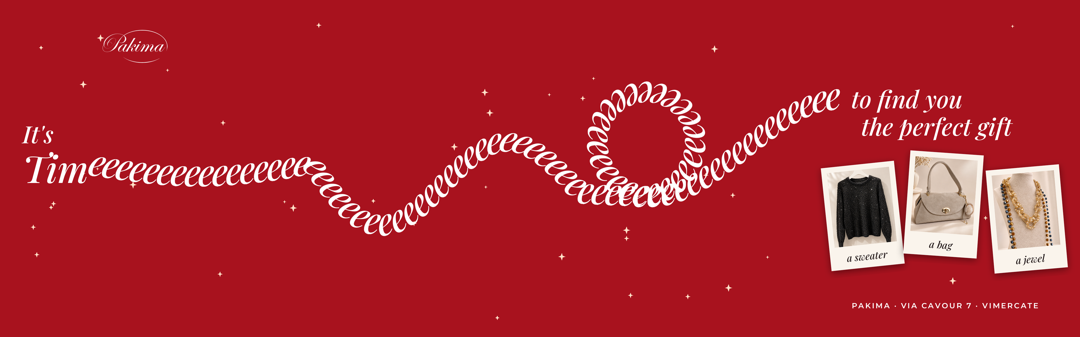
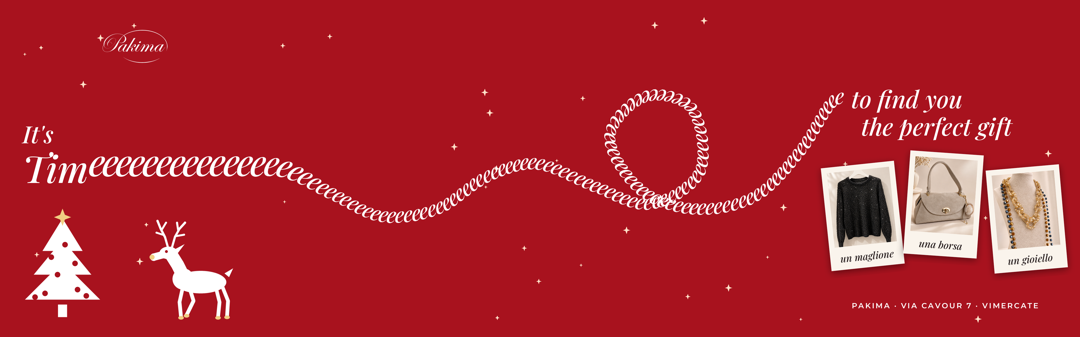
Carosello regali: scia fluida, albero e renna, didascalie in italiano
Claude-Session: https://claude.ai/code/session_01TRyadBTg1JbKFooPCfPKjK

diff --git a/output/2026-11-26-carosello-regali/crea.py b/output/2026-11-26-carosello-regali/crea.py
@@ -32,35 +32,28 @@ def stella(d, cx, cy, r, col):
                (cx, cy + r), (cx - k, cy + k), (cx - r, cy), (cx - k, cy - k)], fill=col)
 
 
+def catmull(pts, n=40):
+    out = []
+    P = [pts[0]] + pts + [pts[-1]]
+    for i in range(1, len(P) - 2):
+        p0, p1, p2, p3 = P[i - 1], P[i], P[i + 1], P[i + 2]
+        for k in range(n):
+            t = k / n
+            t2, t3 = t * t, t * t * t
+            out.append(tuple(0.5 * ((2 * p1[j]) + (-p0[j] + p2[j]) * t + (2 * p0[j] - 5 * p1[j] + 4 * p2[j] - p3[j]) * t2
+                                    + (-p0[j] + 3 * p1[j] - 3 * p2[j] + p3[j]) * t3) for j in (0, 1)))
+    out.append(pts[-1])
+    return out
+
+
 def percorso(x0, y0):
-    """Punti della scia di 'o': dritta, onda, giro della morte, salita verso il testo finale."""
-    pts = []
-    # 1) slide 1: dritta con leggera discesa
-    for x in range(int(x0), 1250, 4):
-        pts.append((x, y0 + 40 * math.sin((x - x0) / 260)))
-    # 2) slide 2: onda
-    ya = pts[-1][1]
-    for x in range(1250, 2330, 4):
-        u = (x - 1250) / 1080
-        pts.append((x, ya + 230 * math.sin(u * 2 * math.pi) * (1 - 0.3 * u) + 120 * u))
-    # 3) slide 3: giro della morte (cerchio pulito con leggera avanzata)
-    xb, yb = pts[-1]
-    for x in range(int(xb), 2560, 4):
-        pts.append((x, yb + (x - xb) * 0.05))
-    xb, yb = pts[-1]
-    R, drift = 210, 55
-    cx, cy = xb, yb - R
-    for i in range(0, 361, 2):
-        ph = math.radians(-90 + i)
-        pts.append((cx + R * math.cos(ph) + drift * i / 360, cy - R * math.sin(ph)))
-    # 4) verso la slide 4: risale dolcemente e finisce dove inizia "per trovare"
-    xc, yc = pts[-1]
-    xe, ye = 3240 + 110, 400
-    for i in range(1, 161):
-        u = i / 160
-        e = u * u * (3 - 2 * u)
-        pts.append((xc + (xe - xc) * u, yc + (ye - yc) * e))
-    return pts
+    """Scia di 'e': dritta nella slide 1, poi onda morbida, giro della morte, arrivo sul testo finale."""
+    c = [(x0, y0), (700, y0), (1000, y0), (1150, y0 + 15),
+         (1330, y0 + 110), (1530, y0 + 200), (1750, y0 + 170), (1950, y0 + 40), (2150, y0 - 10),
+         (2380, y0 + 80), (2600, y0 + 150), (2800, y0 + 20), (2770, y0 - 230), (2580, y0 - 280),
+         (2440, y0 - 120), (2560, y0 + 90), (2780, y0 + 170), (3020, y0 + 120), (3200, y0 - 60),
+         (3320, 420), (3380, 395)]
+    return catmull(c, 60)
 
 
 def ricampiona(pts, passo):
@@ -94,6 +87,57 @@ def polaroid(percorso_foto, w, h, didascalia, ang):
     return ombra.rotate(ang, resample=Image.BICUBIC, expand=True)
 
 
+def disegna_natale(tela):
+    K = 3
+    lay = Image.new("RGBA", (W * K, 500 * K), (0, 0, 0, 0))
+    d = ImageDraw.Draw(lay)
+    B, ORO = (255, 255, 255, 255), (240, 205, 130, 255)
+    # albero: tre livelli, tronco, stella, palline "bucate" nel colore dello sfondo
+    tx, base_y = 250 * K, 470 * K
+    d.rectangle((tx - 18 * K, base_y - 50 * K, tx + 18 * K, base_y), fill=B)
+    for j, (w, h, y) in enumerate([(300, 150, 400), (230, 140, 300), (160, 130, 205)]):
+        d.polygon([(tx - w / 2 * K, y * K), (tx + w / 2 * K, y * K), (tx, (y - h) * K)], fill=B)
+    for (px, py) in [(-70, 375), (60, 360), (-20, 300), (50, 255), (-45, 230), (10, 180), (95, 385), (-110, 390)]:
+        d.ellipse(((tx + px * K) - 11 * K, py * K - 11 * K, (tx + px * K) + 11 * K, py * K + 11 * K), fill=ROSSO + (255,))
+    stella(d, tx, 70 * K, 34 * K, ORO)
+    # renna (silhouette elegante, guarda a sinistra)
+    ox, oy = 560 * K, 70 * K
+    def P(x, y):
+        return (ox + x * K, oy + y * K)
+    def tratto(punti, w):
+        q = [P(*p) for p in punti]
+        d.line(q, fill=B, width=int(w * K), joint="curve")
+        for (x, y) in (q[0], q[-1]):
+            r = w * K / 2
+            d.ellipse((x - r, y - r, x + r, y + r), fill=B)
+    # corpo
+    d.ellipse((*P(140, 215), *P(345, 305)), fill=B)
+    d.ellipse((*P(130, 205), *P(215, 290)), fill=B)          # petto
+    # collo slanciato e testa
+    tratto([(175, 240), (150, 190), (125, 150)], 52)
+    d.ellipse((*P(78, 118), *P(150, 168)), fill=B)            # testa
+    tratto([(92, 150), (55, 160)], 30)                        # muso
+    d.ellipse((*P(38, 150), *P(58, 170)), fill=ORO)           # naso
+    d.ellipse((*P(100, 132), *P(111, 143)), fill=ROSSO + (255,))  # occhio
+    d.polygon([P(140, 128), P(178, 108), P(150, 145)], fill=B)    # orecchio
+    # corna ramificate
+    for pts, w in [([(112, 122), (100, 80), (82, 45), (70, 15)], 9), ([(96, 72), (66, 62)], 8), ([(86, 52), (104, 22)], 8),
+                   ([(128, 120), (140, 78), (158, 46), (180, 22)], 9), ([(141, 76), (176, 70)], 8), ([(153, 54), (148, 22)], 8)]:
+        tratto(pts, w)
+    # zampe (una sollevata, come in cammino)
+    tratto([(170, 285), (158, 340), (164, 400)], 15)
+    tratto([(200, 290), (214, 335), (196, 372), (186, 392)], 15)
+    tratto([(305, 288), (318, 340), (312, 400)], 15)
+    tratto([(330, 280), (352, 335), (348, 398)], 15)
+    # zoccoli
+    for (x, y) in [(164, 400), (186, 392), (312, 400), (348, 398)]:
+        d.ellipse((*P(x - 11, y - 4), *P(x + 11, y + 10)), fill=ORO)
+    # coda
+    d.polygon([P(338, 225), P(372, 205), P(356, 240)], fill=B)
+    lay = lay.resize((W, 500), Image.LANCZOS)
+    tela.alpha_composite(lay, (0, 800))
+
+
 def main():
     tela = Image.new("RGBA", (TOT, H), ROSSO + (255,))
     d = ImageDraw.Draw(tela)
@@ -102,6 +146,8 @@ def main():
     for _ in range(46):
         x, y = random.randint(40, TOT - 40), random.randint(60, H - 60)
         if x > 3 * W + 100 and 280 < y < 600:
+            continue
+        if x < W and 430 < y < 790:
             continue
         stella(d, x, y, random.choice([6, 8, 10, 14]), (255, 225, 200, 255))
 
@@ -114,17 +160,29 @@ def main():
     x_fine = 90 + d.textlength("Tim", font=f1)
     y_o = 570 + 98  # centro verticale delle lettere minuscole
 
-    # scia di "o" che continua su tutte le slide
+    # scia di "e": grande e dritta nella slide 1, poi piu piccola e fluida
     fo = font(F_CORS, 150)
-    o = Image.new("RGBA", (120, 200), (0, 0, 0, 0))
-    ImageDraw.Draw(o).text((10, 0), "e", font=fo, fill=BIANCO)
-    o = o.crop(o.getbbox())
-    pts = ricampiona(percorso(x_fine + o.width * 0.55, y_o), o.width * 0.86)
-    for i, (x, y) in enumerate(pts):
-        if i + 1 < len(pts):
-            ang = -math.degrees(math.atan2(pts[i + 1][1] - y, pts[i + 1][0] - x))
-        r = o.rotate(ang, resample=Image.BICUBIC, expand=True)
-        tela.alpha_composite(r, (int(x - r.width / 2), int(y - r.height / 2)))
+    base = Image.new("RGBA", (120, 200), (0, 0, 0, 0))
+    ImageDraw.Draw(base).text((10, 0), "e", font=fo, fill=BIANCO)
+    base = base.crop(base.getbbox())
+    dense = percorso(x_fine + base.width * 0.5, y_o)
+    def scala(x):
+        u = max(0.0, min(1.0, (x - 980) / 420))
+        return 1 - 0.42 * (u * u * (3 - 2 * u))
+    acc, prossimo = 0.0, 0.0
+    for i in range(1, len(dense)):
+        (x1, y1), (x2, y2) = dense[i - 1], dense[i]
+        acc += math.hypot(x2 - x1, y2 - y1)
+        if acc >= prossimo:
+            sc = scala(x2)
+            ang = -math.degrees(math.atan2(y2 - y1, x2 - x1))
+            e = base.resize((max(1, int(base.width * sc)), max(1, int(base.height * sc))), Image.LANCZOS)
+            r = e.rotate(ang, resample=Image.BICUBIC, expand=True)
+            tela.alpha_composite(r, (int(x2 - r.width / 2), int(y2 - r.height / 2)))
+            prossimo = acc + base.width * sc * 0.82
+
+    # albero di Natale e renna (slide 1, in basso)
+    disegna_natale(tela)
 
     # slide 2 e 3: piccoli testi di accompagnamento
     pass
@@ -134,9 +192,9 @@ def main():
     for j, riga in enumerate(["to find you", "the perfect gift"]):
         f = font(F_CORS, 96)
         d.text((x4 + 165 + j * 40, 330 + j * 110), riga, font=f, fill=BIANCO)
-    foto = [("foto/ai/regalo-maglione-nero-paillettes.png", "a sweater", 6, (x4 + 40, 610)),
-            ("foto/ai/regalo-borsa-beige.png", "a bag", -4, (x4 + 370, 570)),
-            ("foto/ai/regalo-collane-cristalli.png", "a jewel", 5, (x4 + 700, 625))]
+    foto = [("foto/ai/regalo-maglione-nero-paillettes.png", "un maglione", 6, (x4 + 40, 610)),
+            ("foto/ai/regalo-borsa-beige.png", "una borsa", -4, (x4 + 370, 570)),
+            ("foto/ai/regalo-collane-cristalli.png", "un gioiello", 5, (x4 + 700, 625))]
     for p, nome, ang, (px, py) in foto:
         c = polaroid(p, 250, 300, nome, ang)
         tela.alpha_composite(c, (px - 30, py))
